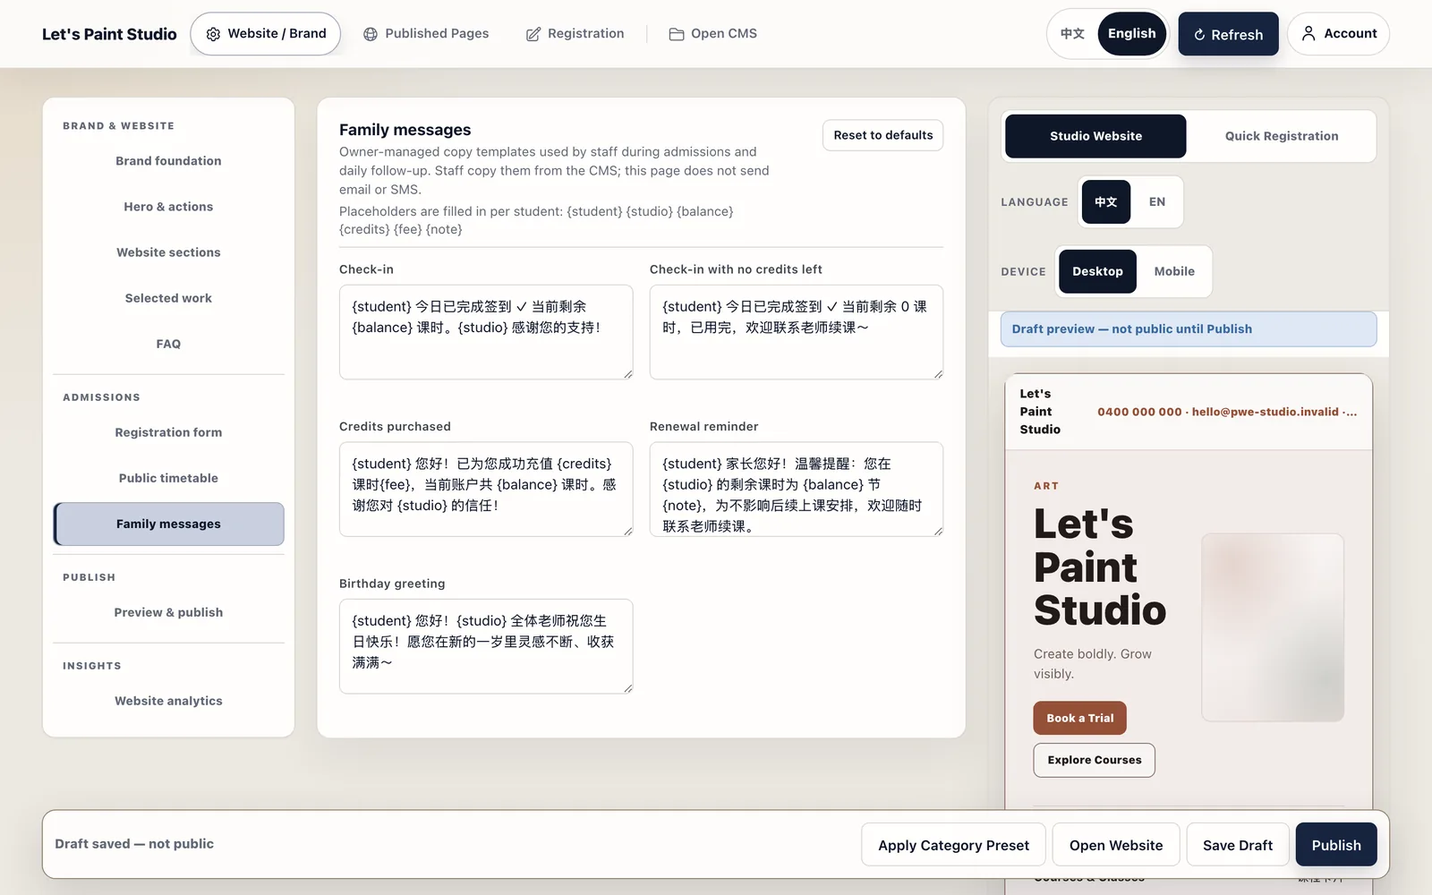
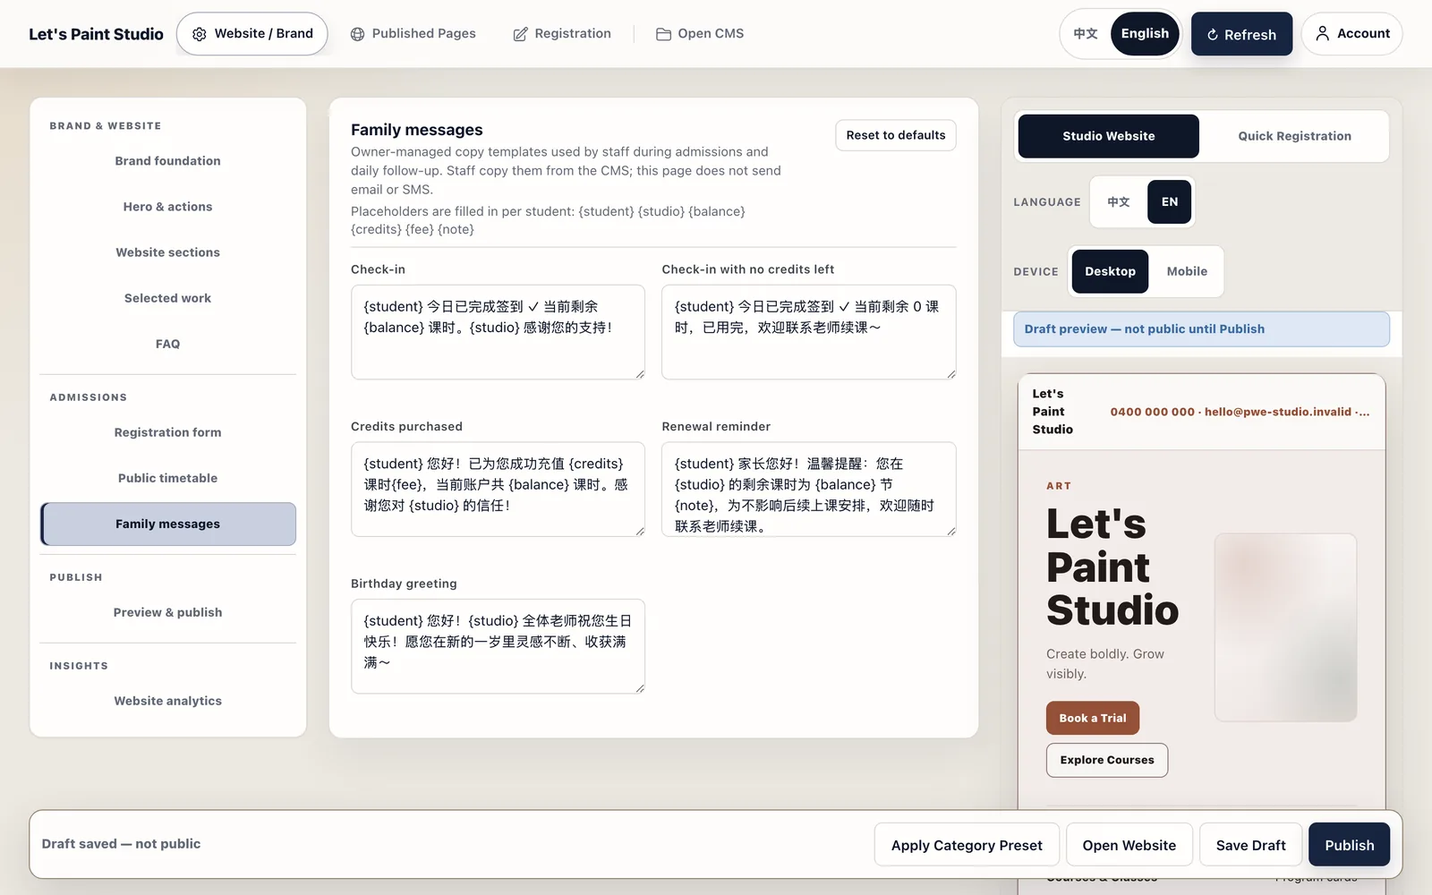
release: polish v9.6.1 Studio Admin workspace

diff --git a/backend/frontend/studio-admin.html b/backend/frontend/studio-admin.html
@@ -2006,6 +2006,22 @@
       box-shadow: 0 12px 36px color-mix(in srgb, var(--ink) 8%, transparent);
     }
 
+    /* v9.6.1: Studio Admin is an operating workspace, not a reading page.
+       Let the shell use the available viewport like CMS does; the readable
+       measure is still protected inside form copy and panel headings. The
+       inner editor/preview pair keeps its 1.618:1 split below. */
+    .header-top,
+    main {
+      width: 100%;
+      max-width: none;
+      padding-left: clamp(16px, 2vw, 34px);
+      padding-right: clamp(16px, 2vw, 34px);
+    }
+
+    .workbench-layout {
+      grid-template-columns: minmax(220px, 280px) minmax(0, 1fr);
+    }
+
     .brand h1 { color: var(--ink); }
 
     /* The language switch injects its own 44px buttons and a 5px pad; trimmed
@@ -2242,6 +2258,20 @@
 
     .detail-row:last-child { border-bottom: 0; }
 
+    @media (min-width: 769px) and (max-width: 1180px) {
+      /* Keep the grouped rail readable on tablet widths, then stack the
+         editor and preview before either column becomes a narrow strip. */
+      .workbench-layout {
+        grid-template-columns: minmax(196px, 0.28fr) minmax(0, 1fr);
+      }
+      .settings-shell {
+        grid-template-columns: 1fr;
+      }
+      .preview-panel {
+        position: static;
+      }
+    }
+
     .modal-footer {
       padding: 16px 24px;
       border-top: 1px solid var(--line);
@@ -2258,6 +2288,7 @@
       .header { position: static; }
       .section { scroll-margin-top: var(--ui-space-4, 21px); }
       .section-title { font-size: 19px; }
+      .workbench-layout { grid-template-columns: 1fr; }
       .brand-preview { grid-template-columns: 1fr; }
       .modal-footer { justify-content: stretch; }
       .modal-footer button { flex: 1 1 160px; }
@@ -3209,7 +3240,12 @@
     let publishedVersionLabel = '';
     let previewMode = 'portal';
     let previewDevice = 'desktop';
-    let previewLanguage = 'zh';
+    /* Start the visitor preview in the same language as the admin shell. The
+       control remains independent after an owner intentionally compares the
+       other language. This prevents an English admin from opening on a
+       Chinese-looking preview while keeping side-by-side QA possible. */
+    let previewLanguage = localStorage.getItem('studiosaas_admin_language') === 'en' ? 'en' : 'zh';
+    let previewLanguageManuallySet = false;
     /* Shared by updateThemePreview and renderPreviewSections. It used to be
        declared inside updateThemePreview, which is why the section list — a
        separate function — read only the Chinese label inputs and ignored the
@@ -3914,7 +3950,7 @@
     function openTenantSurface(surface) {
       const url = tenantSurfaceUrl(surface);
       if (url === '#') {
-        showToast('Tenant slug is required.', 'error');
+        showToast(adminText('请先填写工作室网址标识。', 'Tenant slug is required.'), 'error');
         return;
       }
       window.open(url, '_blank');
@@ -3972,28 +4008,29 @@
       await updateProducerCredit();
       const slug = currentTenantSlug();
       const checks = [
-        ['surfacePortalHealth', 'portal', 'Portal'],
-        ['surfaceCmsHealth', 'cms', 'CMS'],
-        ['surfaceRegisterHealth', 'register', 'Register'],
-        ['surfaceAdminHealth', 'admin', 'Studio Admin']
+        ['surfacePortalHealth', 'portal', '官网', 'Portal'],
+        ['surfaceCmsHealth', 'cms', '运营 CMS', 'CMS'],
+        ['surfaceRegisterHealth', 'register', '报名', 'Register'],
+        ['surfaceAdminHealth', 'admin', '工作室管理', 'Studio Admin']
       ];
       if (!slug) {
-        checks.forEach(([id]) => setSurfaceHealth(id, 'warn', 'Missing slug'));
+        checks.forEach(([id]) => setSurfaceHealth(id, 'warn', adminText('缺少网址标识', 'Missing slug')));
         return;
       }
-      checks.forEach(([id]) => setSurfaceHealth(id, 'warn', 'Checking...'));
-      await Promise.all(checks.map(async ([id, surface, label]) => {
+      checks.forEach(([id]) => setSurfaceHealth(id, 'warn', adminText('检查中…', 'Checking...')));
+      await Promise.all(checks.map(async ([id, surface, labelZh, labelEn]) => {
+        const label = adminText(labelZh, labelEn);
         try {
           const response = await fetch(tenantSurfaceUrl(surface), { credentials: 'same-origin', cache: 'no-store' });
           if (response.ok) {
-            setSurfaceHealth(id, 'ok', `${label} OK`);
+            setSurfaceHealth(id, 'ok', `${label} ${adminText('正常', 'OK')}`);
           } else if ([401, 403].includes(response.status)) {
-            setSurfaceHealth(id, 'warn', `${label} requires login`);
+            setSurfaceHealth(id, 'warn', `${label} ${adminText('需要登录', 'requires login')}`);
           } else {
             setSurfaceHealth(id, 'fail', `${label} ${response.status}`);
           }
         } catch (err) {
-          setSurfaceHealth(id, 'fail', `${label} unavailable`);
+          setSurfaceHealth(id, 'fail', `${label} ${adminText('不可用', 'unavailable')}`);
         }
       }));
     }
@@ -5467,7 +5504,8 @@
       updateThemePreview();
     }
 
-    function switchPreviewLanguage(language) {
+    function switchPreviewLanguage(language, {manual = false} = {}) {
+      if (manual) previewLanguageManuallySet = true;
       previewLanguage = language === 'en' ? 'en' : 'zh';
       document.querySelectorAll('[data-preview-language]').forEach((button) => {
         const active = button.dataset.previewLanguage === previewLanguage;
@@ -5500,7 +5538,10 @@
         studioLogo.hidden = true;
         studioLogo.removeAttribute('src');
       };
-      $('studioMeta').textContent = t.slug ? `${t.slug} · ${preset.label} website and brand console` : 'Website and brand console';
+      const categoryLabel = adminIsZh() ? (preset.labelZh || preset.label) : preset.label;
+      $('studioMeta').textContent = t.slug
+        ? `${t.slug} · ${categoryLabel} ${adminText('官网与品牌管理', 'website and brand console')}`
+        : adminText('官网与品牌管理', 'Website and brand console');
       $('tenantSlug').value = t.slug || currentTenantSlug();
       updateSurfaceLinks();
       updateSurfaceHealth().catch((error) => console.warn('Surface health refresh failed.', error));
@@ -6517,7 +6558,7 @@
         button.addEventListener('click', () => switchPreviewDevice(button.dataset.previewDevice));
       });
       document.querySelectorAll('[data-preview-language]').forEach((button) => {
-        button.addEventListener('click', () => switchPreviewLanguage(button.dataset.previewLanguage));
+        button.addEventListener('click', () => switchPreviewLanguage(button.dataset.previewLanguage, {manual: true}));
       });
       $('presetGrid').addEventListener('click', (event) => {
         const card = event.target.closest('[data-preset-key]');
@@ -6625,9 +6666,14 @@
         'settingTimetableFieldDuration','settingTimetableFieldCapacity','settingTimetableFieldPrice'
       ].forEach((id) => $(id).addEventListener('change', () => { setSettingsDirty(true); updateThemePreview(); }));
       ['settingButtonStyle','settingFontMood'].forEach((id) => $(id).addEventListener('change', markThemeCustom));
-      document.addEventListener('studiosaas:admin-language', () => {
+      document.addEventListener('studiosaas:admin-language', (event) => {
+        if (!previewLanguageManuallySet) {
+          switchPreviewLanguage(event.detail?.language);
+        }
         renderStylePresetGrid();
         renderPresetGrid($('settingCategory')?.value || 'general');
+        updateWorkspaceStatus();
+        updateSurfaceHealth().catch((error) => console.warn('Surface health language refresh failed.', error));
       });
       $('settingCategory').addEventListener('change', () => {
         applyCategoryPreset();

diff --git a/customer-resources/Release_Notes.html b/customer-resources/Release_Notes.html
@@ -54,6 +54,17 @@
   <p data-lang="zh">以下内容均属于已发布的产品版本。每一条都是交付依据，不是路线图承诺。</p>
   <div class="grid">
     <article class="card">
+      <strong data-lang="en">A wider, better-aligned Studio Admin workbench (v9.6.1)</strong><strong data-lang="zh">更宽、更协调的 Studio Admin 工作台（v9.6.1）</strong>
+      <p data-lang="en">The Studio Admin shell now uses the available desktop canvas like the CMS. The navigation rail stays compact, the editor and preview keep a balanced working ratio, tablet layouts stack before content becomes cramped, and mobile remains single-column without horizontal overflow.</p>
+      <p data-lang="zh">Studio Admin 现在像 CMS 一样利用桌面可用空间。左侧导航保持紧凑，编辑区与预览区维持平衡比例；平板在内容拥挤前自动改为上下布局，手机继续单列且不会横向溢出。</p>
+      <p data-lang="en">The preview starts in the active admin language so the shell, draft notice and save status stay aligned. Its own language control still supports an explicit independent bilingual comparison.</p>
+      <p data-lang="zh">预览区默认跟随当前后台语言，让外壳、草稿提示和保存状态保持一致；预览区自己的语言按钮仍可用于明确的中英文独立对照。</p>
+      <p data-lang="en">This is a presentation and language-alignment release only. It does not change the data model, permissions, publishing contract, payments, bank-transfer display, persistent CMS notifications or external messaging providers.</p>
+      <p data-lang="zh">本版本只做布局与语言对齐，不改变数据模型、权限、发布契约、支付、银行转账展示、持久化 CMS 通知或外部消息服务。</p>
+      <p data-lang="en">Production acceptance is recorded in the latest handoff after the v9.6.1 package, deployment and public deep-health gate complete.</p>
+      <p data-lang="zh">v9.6.1 完成打包、部署和公网 deep health 验收后，最新 handoff 会补充完整生产证据。</p>
+    </article>
+    <article class="card">
       <strong data-lang="en">A clearer Studio Admin workbench for public publishing (v9.6.0)</strong><strong data-lang="zh">更清晰的 Studio Admin 官网发布工作台（v9.6.0）</strong>
       <p data-lang="en">Studio Admin now groups its work into Brand &amp; Website, Admissions, Publish and Insights. Registration and public timetable controls sit together under Admissions, while family-message templates remain in Studio Admin and keep the existing CMS copy workflow.</p>
       <p data-lang="zh">Studio Admin 现在按「品牌与官网、招生入口、发布中心、经营洞察」组织工作。报名表与公开课表统一放在「招生入口」下；家长话术仍留在 Studio Admin，并继续兼容 CMS 的复制使用流程。</p>

diff --git a/manual.html b/manual.html
@@ -217,8 +217,8 @@
           <li data-lang="zh"><strong>选视觉风格。</strong>八个精选起点 + 自定义共用同一套调色板与 token 引擎；街机青柠仅暗色，某套风格不提供的模式会置灰，而不是凑一个出来。</li>
           <li data-lang="en"><strong>Fill in the studio details, hero, sections and enquiry questions.</strong> A section with no content stays hidden even when its switch is on, so an unfinished page never shows an empty shell.</li>
           <li data-lang="zh"><strong>填工作室信息、首屏、板块与报名问题。</strong>没写内容的板块即使开关打开也不会显示——没写完的页面不会露出空壳。</li>
-          <li data-lang="en"><strong>Save Draft, preview, then Publish.</strong> The preview switches between the portal and the register page, both languages, desktop and mobile.</li>
-          <li data-lang="zh"><strong>保存草稿、预览、再发布。</strong>预览区可切换门户 / 报名页、中英文、桌面 / 手机。</li>
+          <li data-lang="en"><strong>Save Draft, preview, then Publish.</strong> The preview starts in the admin language, then its own language control can compare the portal and register page in either language, desktop or mobile.</li>
+          <li data-lang="zh"><strong>保存草稿、预览、再发布。</strong>预览默认跟随管理界面语言；之后可用预览区自己的语言按钮，对照门户 / 报名页、中英文、桌面 / 手机。</li>
         </ol>
 
         <figure>

diff --git a/backend/tests/test_studio_console.py b/backend/tests/test_studio_console.py
@@ -216,6 +216,41 @@ def test_v96_preview_toolbar_wraps_without_clipping_controls() -> None:
     assert "width: 100%" in styles[styles.index(".preview-tabs {"):]
 
 
+def test_v961_wide_shell_uses_available_width_before_stacking() -> None:
+    """The workbench should behave like CMS on wide screens.
+
+    The readable measure belongs to copy, not to the operating shell. The
+    editor/preview pair keeps its phi split while the outer page can use the
+    viewport and the tablet breakpoint stacks before either column collapses.
+    """
+
+    styles = style_source()
+    assert ".header-top,\n    main {" in styles
+    shell = styles[styles.index(".header-top,\n    main {"):]
+    assert "width: 100%;" in shell[:shell.index("}")]
+    assert "max-width: none;" in shell[:shell.index("}")]
+    assert "grid-template-columns: minmax(220px, 280px) minmax(0, 1fr);" in styles
+    tablet_media = "@media (min-width: 769px) and (max-width: 1180px)"
+    assert tablet_media in styles
+    assert "grid-template-columns: 1fr;" in styles[styles.index(tablet_media):]
+
+
+def test_v961_preview_language_follows_admin_until_manually_changed() -> None:
+    """The first preview language must not contradict the admin language.
+
+    Owners can still compare the other visitor language explicitly, so the
+    follow mode stops once a preview language button is chosen by the user.
+    """
+
+    source = console()
+    assert "localStorage.getItem('studiosaas_admin_language') === 'en' ? 'en' : 'zh'" in source
+    assert "let previewLanguageManuallySet = false;" in source
+    assert "switchPreviewLanguage(event.detail?.language)" in source
+    assert "{manual: true}" in source
+    assert "adminText('正常', 'OK')" in source
+    assert "adminText('需要登录', 'requires login')" in source
+
+
 def test_v96_dirty_state_covers_timezone_timetable_and_family_messages() -> None:
     source = console()
     for field in (

diff --git a/backend/server.py b/backend/server.py
@@ -122,7 +122,7 @@ SESSION_SECRET_FILE = _data_path('.session_secret')
 PW_FILE       = _data_path('.cms_password')
 app.config['PHOTO_DIR'] = PHOTO_DIR
 MAX_BACKUPS   = 30   # 1 backup/hr rate limit → ~30 hours of rolling coverage
-APP_VERSION   = '9.6.0'
+APP_VERSION   = '9.6.1'
 app.config['APP_VERSION'] = APP_VERSION
 ASSET_ROOT = os.path.join(app.root_path, 'frontend', 'assets')
 ASSET_MANIFEST_PATH = os.path.join(ASSET_ROOT, 'asset-manifest.json')

diff --git a/docs/HANDOFF_LATEST.md b/docs/HANDOFF_LATEST.md
@@ -1,11 +1,11 @@
-# PWE Studio v9.6.0 — Studio Admin 执行 handoff
+# PWE Studio v9.6.1 — Studio Admin 执行 handoff
 
-> 状态：已完成代码、文档、打包、同步、部署与公网验收；版本：`9.6.0`。本节是本文件的最新交接入口，历史版本记录仍保留在下方。
+> 状态：候选版本，代码与文档已完成；待完成打包、同步、部署与公网验收。版本：`9.6.1`。本节是本文件的最新交接入口，历史版本记录仍保留在下方。
 
 ## 当前事实
 
-- 源码分支：`codex/v9.3.0-cms-information-architecture`；`VERSION` 已更新为 `9.6.0`；部署候选 commit：`f9007855dcaa10298bd522c82e7397d2afba0638`。
-- 当前生产：`https://pwestudio.online`；`/opt/pwestudio/current` 指向 `PWE-StudioSaaS-aws-9.6.0`，运行镜像为 `studiosaas:9.6.0`。
+- 源码分支：`codex/v9.3.0-cms-information-architecture`；`VERSION` 已更新为 `9.6.1`；部署候选 commit 将在候选提交完成后记录。
+- 当前生产：`https://pwestudio.online`；当前仍为 `PWE-StudioSaaS-aws-9.6.0`，直到 v9.6.1 通过发布门禁。
 - Studio Admin 负责品牌、官网、报名入口、公开课表、草稿、预览与发布；CMS 负责日常运营。
 - 家长话术不迁移数据、不新建发送系统，仍保留在 Studio Admin，入口归入「招生入口」子菜单；CMS 继续复制使用。
 - 支付、银行转账信息、Gmail/SMTP、AWS SES、短信、SSE、WebSocket、浏览器 Push 均不在本版本。
@@ -27,7 +27,7 @@
 经营洞察：官网数据分析
 ```
 
-预览明确标为私有草稿；保存条区分未保存、草稿未公开和已发布状态；桌面编辑区/预览区维持约 `1.618:1`，移动端改为单列且不依赖横向滚动。
+预览明确标为私有草稿；保存条区分未保存、草稿未公开和已发布状态；桌面工作台使用可用宽度，编辑区/预览区维持约 `1.618:1`，平板在拥挤前堆叠预览，移动端改为单列且不依赖横向滚动。预览默认跟随后台语言，但保留独立的中英文对照按钮。
 
 ### P2：交接与回归
 
@@ -38,17 +38,11 @@
 - `?view=register`、`?view=messages`、`?view=advanced` 能直接打开对应工作区。
 - 家长话术继续读取旧 `messageTemplates` 数据并进入现有发布载荷；没有第二个编辑器或发送服务。
 - 草稿、预览、已发布官网三者文案不混淆；发布失败有明确恢复路径。
-- 本地、双模式发布包和生产 `APP_VERSION` / `BUILD_INFO` / deep health 均为 `9.6.0`。
+- 本地候选版本为 `9.6.1`；双模式发布包和生产 `APP_VERSION` / `BUILD_INFO` / deep health 待发布闭环后补齐。
 
-## 发布与验证证据
+## 发布与验证证据（待补齐）
 
[2 lines of base64/hex data omitted]
-- 两个包的 `BUILD_INFO` 均为 `version=9.6.0`，部署候选 commit 为 `f9007855dcaa10298bd522c82e7397d2afba0638`，模式分别为 `saas` / `standalone`。
-- 部署前后备份：`studiosaas_studiosaas_20260809T140039Z.dump`、`pwestudio-volumes-20260809T140040Z.tar.gz`。
-- 公网 deep health：`appVersion=9.6.0`、`db=ok`、`mode=saas`、`tenants=6`、`themes.unreadable=0`；容器 healthy，磁盘可用约 `47.03 GB`。
-- 公网 `/`、`/zh/`、展示租户门户、报名页、CMS、Studio Admin、双语在线手册、双语 Release Notes 和新增家长话术截图均返回 `200`；HTTP → HTTPS 为 `301`，TLS 校验为 `0`，HTTP/2。
-- 本地完整门禁：`1943 passed, 8 skipped`；CMS smoke：`73 passed, 0 failed`；租户隔离：`237 passed, 0 failed`；生产部署后最近 5 分钟 app/db 错误关键词计数均为 `0`。
+- 候选 commit、SaaS/Edition 包路径与 SHA-256、`BUILD_INFO`、部署备份、生产 deep health、公网路由和完整测试结果将在发布闭环后补齐。
 
 ---
 

diff --git a/README.md b/README.md
@@ -7,12 +7,30 @@ the current source tree was packaged or deployed.
 
 | Layer | Verified state | Evidence |
 |---|---|---|
-| Source | `codex/v9.3.0-cms-information-architecture`; `VERSION` = **9.6.0** | This branch, which is ahead of `main`, produced deployed candidate commit `f9007855dcaa10298bd522c82e7397d2afba0638`; the closure docs commit is recorded separately. |
[1 lines of base64/hex data omitted]
-| Production | **9.6.0 deployed and publicly accepted** | `/opt/pwestudio/current` points to `PWE-StudioSaaS-aws-9.6.0`, image `studiosaas:9.6.0`; deep health reports `db=ok`, 6 readable tenants and `unreadable=0`. `BUILD_INFO` separately confirms the deployed commit. |
+| Source | `codex/v9.3.0-cms-information-architecture`; `VERSION` = **9.6.1** | This branch, which is ahead of `main`, is the v9.6.1 candidate; the exact release and closure commits are recorded separately in `docs/HANDOFF_LATEST.md`. |
+| Package | **9.6.1 SaaS + Edition archives pending release closure** | The archives are built only from the clean v9.6.1 candidate; SHA-256 and `BUILD_INFO` evidence will be recorded after packaging. |
+| Production | **9.6.1 deployment pending release closure** | Production remains v9.6.0 until the v9.6.1 package passes the release gate and public acceptance. |
 
 Re-verify the production health endpoint before any later release claim; do not
 infer Production from `VERSION` or from an archive filename, which does not identify the deployed commit.
+
+## v9.6.1 Studio Admin workspace polish
+
+This small release keeps the approved Studio Admin information architecture and
+improves its working surface: the shell now uses the available desktop width
+like the CMS, with a compact navigation rail and a golden-ratio editor/preview
+split inside it. Tablet layouts stack the preview before content becomes cramped,
+and mobile stays single-column without horizontal overflow.
+
+The preview language starts in the admin shell language so the interface does
+not present an unexplained Chinese/English mismatch. Its own language control
+still allows an explicit independent comparison. Surface health labels, draft
+status and save status now follow the active admin language as well.
+
+No data model, permissions, publishing contract, payment, notification or
+external messaging behaviour changes in this release. Online payments,
+bank-transfer configuration, Gmail/SMTP, AWS SES, SMS, SSE, WebSocket and
+browser push remain outside scope.
 
 ## v9.6.0 Studio Admin information architecture and publication clarity
 
@@ -942,7 +960,7 @@ curl -i -X POST http://localhost:8901/v1/admin/tenants \
 | `docs/Deployment.md` | Deployment stages; Stage 2 (AWS Lightsail) live since 2026-07-30 |
 | `docs/Design_System.md` | UI tokens and component standards |
 | `docs/Glossary.md` | One agreed word per concept (enforced by `check_terminology.py`) |
-| `docs/guides/` | Per-role user manuals in Chinese (applicable to v9.6.0) |
+| `docs/guides/` | Per-role user manuals in Chinese (applicable to v9.6.1) |
 | `01 BRAND ASSETS/` | PWE/Paradise family delivery kit and validated asset manifest |
 
 ---

diff --git a/docs/customer/Release_Notes.md b/docs/customer/Release_Notes.md
@@ -1,5 +1,27 @@
 # PWE Studio — Release Notes and Acceptance Evidence
 
+## v9.6.1 — Studio Admin workspace polish
+
+This small release keeps the v9.6.0 information architecture and gives the
+Studio Admin workbench a more useful canvas. On wide screens the shell uses the
+available width like the CMS, while the navigation rail stays compact and the
+editor/preview pair keeps its approximately `1.618:1` working ratio. Tablet
+layouts stack the preview before the working area becomes cramped; mobile stays
+single-column without horizontal overflow.
+
+The preview now starts in the active admin shell language, so the surrounding
+controls, draft notice and save status do not unexpectedly disagree with the
+preview. The preview language buttons remain available for an explicit,
+independent bilingual comparison.
+
+This is a presentation and language-alignment release only. It does not change
+the data model, permissions, publishing contract, payments, bank-transfer
+display, persistent CMS notifications or external messaging providers.
+
+Production acceptance will be recorded here after the v9.6.1 package, deploy
+and public deep-health gate complete; v9.6.0 remains the currently deployed
+version until then.
+
 ## v9.6.0 — Studio Admin navigation and publication clarity
 
 Studio Admin now groups the public-brand workbench into Brand & Website,

diff --git a/docs/guides/CMS_Manager_Guide.md b/docs/guides/CMS_Manager_Guide.md
@@ -1,13 +1,13 @@
 # CMS 运营手册 · Manager（店长/运营主管）
 
-> 适用版本：PWE Studio v9.6.0 · 界面：运营 CMS（`/<工作室网址标识>/cms`）
+> 适用版本：PWE Studio v9.6.1 · 界面：运营 CMS（`/<工作室网址标识>/cms`）
 > 其他角色手册见 [手册总览](README.md)
 
 ## 角色定位
 
 Manager 是工作室的日常运营负责人：学员档案、课程安排与签到、课时充值与退款、报名审批、经营统计，这些都在你的权限范围内。你与 Owner 的差别只在两处——**你不能管理团队成员账号**（只能查看成员列表），**也不能进入 Studio Admin 修改品牌、配色和门户内容**（那些属于 Owner）。
 
-### 通知铃铛（v9.5.0 起，v9.6.0 保持不变）
+### 通知铃铛（v9.5.0 起，v9.6.1 保持不变）
 
 CMS 右上角的铃铛会显示新的报名和约课申请。系统每 30 秒检查一次，浏览器重新回到前台时也会立即检查；有新事项时会弹出提示。点击通知可直接进入「待审核」对应标签，处理后可单条标记已读，也可以选择「全部已读」。通知历史按用户分别记录，不依赖 Gmail、短信或浏览器推送。
 

diff --git a/docs/guides/Student_Parent_Guide.md b/docs/guides/Student_Parent_Guide.md
@@ -1,6 +1,6 @@
 # 学员与家长手册（门户 · 报名 · 自助查询）
 
-> 适用版本：PWE Studio v9.6.0 · 界面：工作室官网门户（`/<工作室网址标识>`）与
+> 适用版本：PWE Studio v9.6.1 · 界面：工作室官网门户（`/<工作室网址标识>`）与
 > 独立报名页（`/<工作室网址标识>/register`）
 > 其他角色手册见 [手册总览](README.md)
 

diff --git a/docs/guides/README.md b/docs/guides/README.md
@@ -1,6 +1,6 @@
 # StudioSaaS 使用手册总览
 
-> 适用版本：PWE Studio v9.6.0 · 最后更新：2026-08-09
+> 适用版本：PWE Studio v9.6.1 · 最后更新：2026-08-10
 > 本目录是按角色划分的最终用户手册。开发/运维文档见 `docs/` 上层
 > （[Architecture](../Architecture.md) · [Admin_Guide](../Admin_Guide.md) ·
 > [Glossary](../Glossary.md)）。
